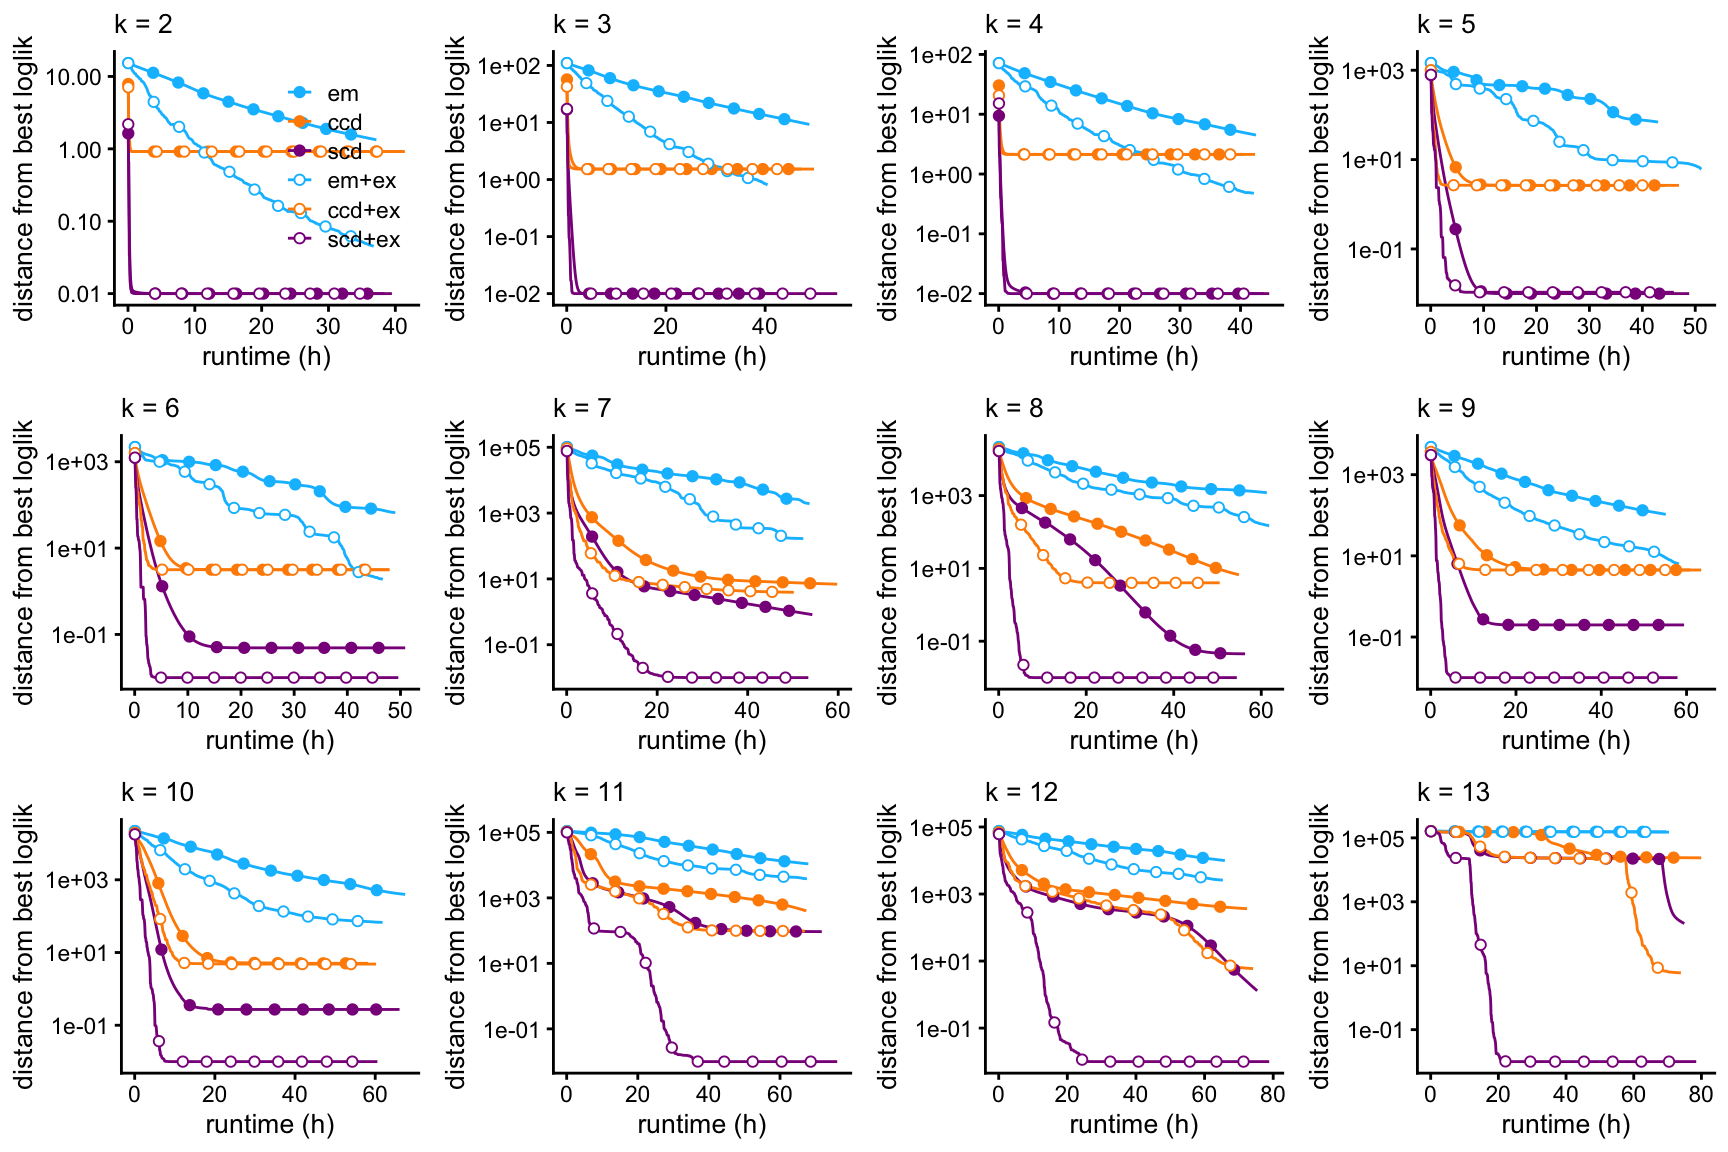
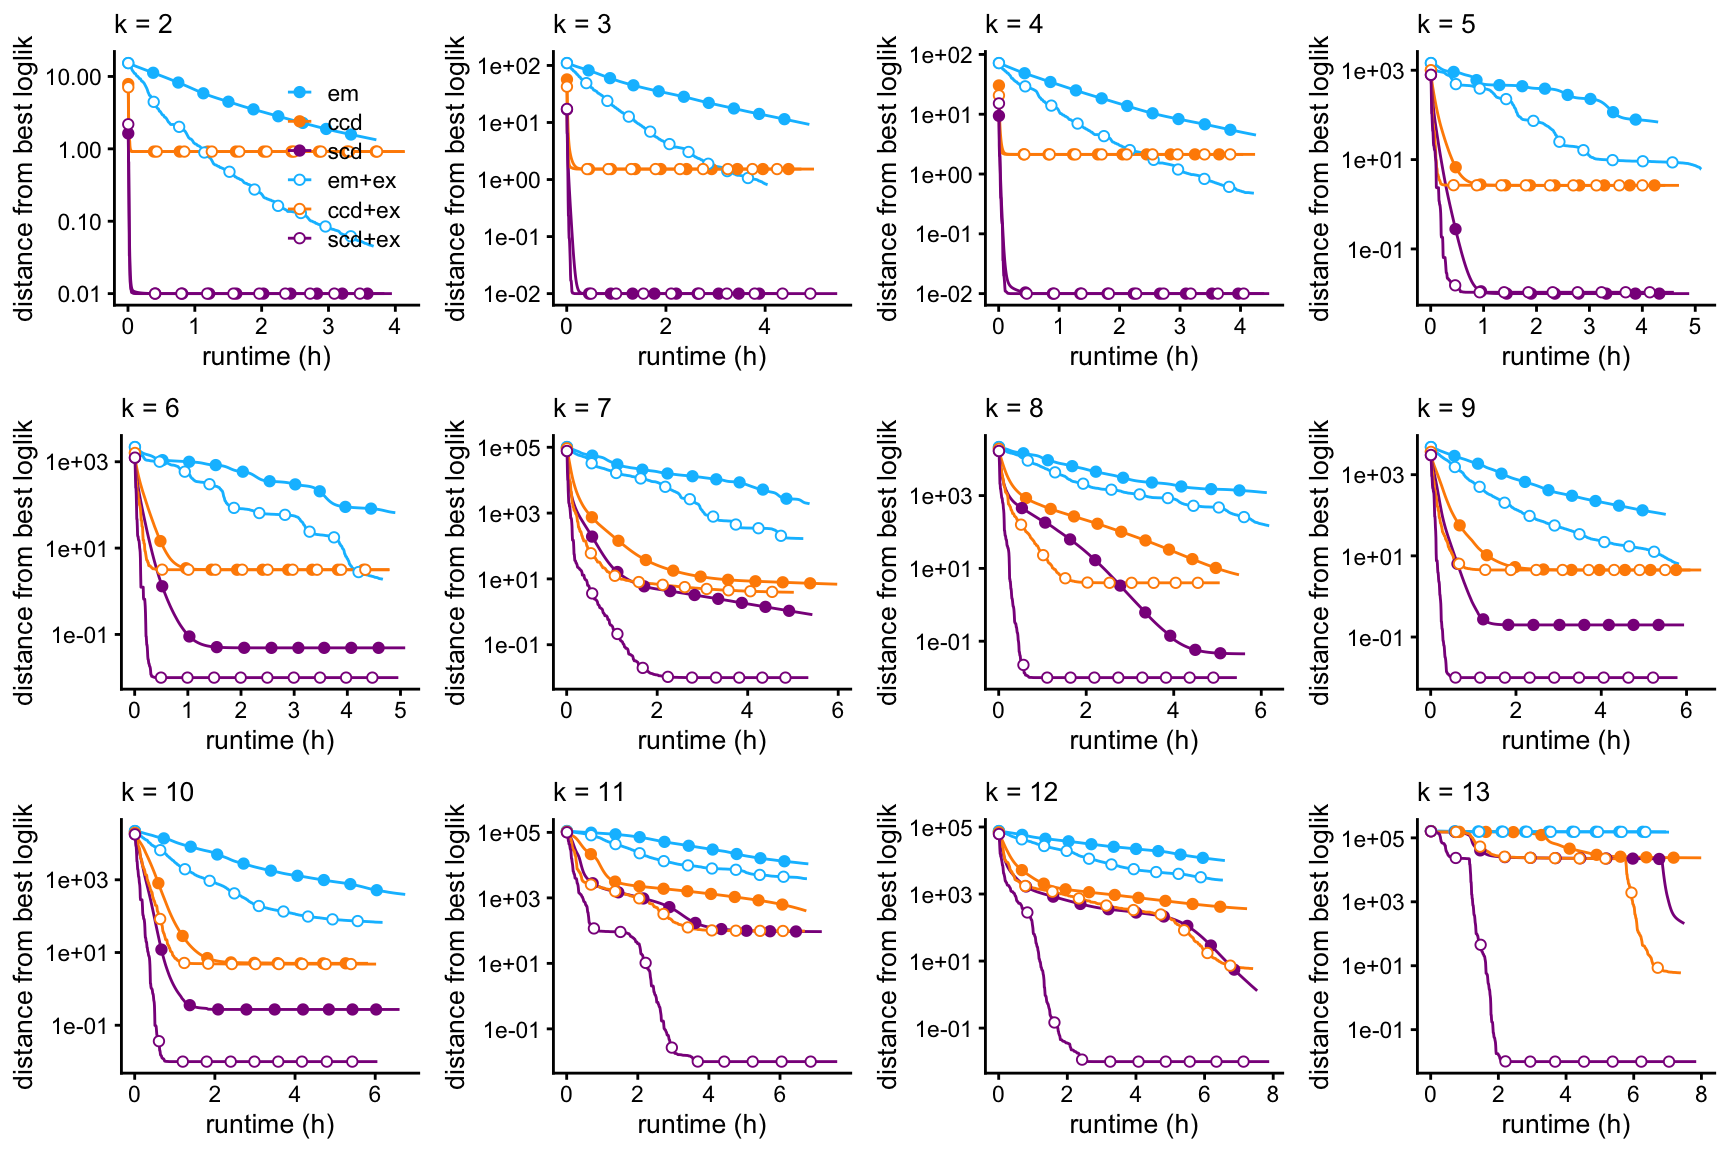
Re-ran assess_fits_purified_pbmc analysis with fix to timings reported in x axes.

diff --git a/docs/assess_fits_purified_pbmc.html b/docs/assess_fits_purified_pbmc.html
@@ -285,7 +285,9 @@ $(document).ready(function () {
 </li>
       </ul>
       <ul class="nav navbar-nav navbar-right">
-        
+        <li>
+  <a href="https://github.com/stephenslab/single-cell-topics">source</a>
+</li>
       </ul>
     </div><!--/.nav-collapse -->
   </div><!--/.container -->
@@ -321,7 +323,7 @@ $(document).ready(function () {
 <div class="tab-content">
 <div id="summary" class="tab-pane fade in active">
 <p>
-<strong>Last updated:</strong> 2020-08-10
+<strong>Last updated:</strong> 2020-08-31
 </p>
 <p>
 <strong>Checks:</strong> <span class="glyphicon glyphicon-ok text-success" aria-hidden="true"></span> 7 <span class="glyphicon glyphicon-exclamation-sign text-danger" aria-hidden="true"></span> 0
@@ -412,25 +414,34 @@ This reproducible <a href="http://rmarkdown.rstudio.com">R Markdown</a> analysis
 <div class="panel panel-default">
 <div class="panel-heading">
 <p class="panel-title">
-<a data-toggle="collapse" data-parent="#workflowr-checks" href="#strongRepositoryversionstrongahrefhttpsgithubcomstephenslabsinglecelltopicstreed8617a374a5744c7e64ee164228e3c76ae89c175targetblankd8617a3a"> <span class="glyphicon glyphicon-ok text-success" aria-hidden="true"></span> <strong>Repository version:</strong> <a href="https://github.com/stephenslab/single-cell-topics/tree/d8617a374a5744c7e64ee164228e3c76ae89c175" target="_blank">d8617a3</a> </a>
+<a data-toggle="collapse" data-parent="#workflowr-checks" href="#strongRepositoryversionstrongahrefhttpsgithubcomstephenslabsinglecelltopicstree5653062ef35a3946031b36d3ed6e19310460db80targetblank5653062a"> <span class="glyphicon glyphicon-ok text-success" aria-hidden="true"></span> <strong>Repository version:</strong> <a href="https://github.com/stephenslab/single-cell-topics/tree/5653062ef35a3946031b36d3ed6e19310460db80" target="_blank">5653062</a> </a>
 </p>
 </div>
[2 lines of base64/hex data omitted]
 <div class="panel-body">
 <p>
 Great! You are using Git for version control. Tracking code development and connecting the code version to the results is critical for reproducibility.
 </p>
 <p>
-The results in this page were generated with repository version <a href="https://github.com/stephenslab/single-cell-topics/tree/d8617a374a5744c7e64ee164228e3c76ae89c175" target="_blank">d8617a3</a>. See the <em>Past versions</em> tab to see a history of the changes made to the R Markdown and HTML files.
+The results in this page were generated with repository version <a href="https://github.com/stephenslab/single-cell-topics/tree/5653062ef35a3946031b36d3ed6e19310460db80" target="_blank">5653062</a>. See the <em>Past versions</em> tab to see a history of the changes made to the R Markdown and HTML files.
 </p>
 <p>
 Note that you need to be careful to ensure that all relevant files for the analysis have been committed to Git prior to generating the results (you can use <code>wflow_publish</code> or <code>wflow_git_commit</code>). workflowr only checks the R Markdown file, but you know if there are other scripts or data files that it depends on. Below is the status of the Git repository when the results were generated:
 </p>
 <pre><code>
 Ignored files:
+    Ignored:    data/droplet.RData
+    Ignored:    data/pbmc_68k.RData
+    Ignored:    data/pbmc_purified.RData
+    Ignored:    data/pulseseq.RData
     Ignored:    output/droplet/fits-droplet.RData
+    Ignored:    output/droplet/rds/
     Ignored:    output/pbmc-68k/fits-pbmc-68k.RData
+    Ignored:    output/pbmc-68k/rds/
     Ignored:    output/pbmc-purified/fits-pbmc-purified.RData
+    Ignored:    output/pbmc-purified/rds/
+    Ignored:    output/pulseseq/fits-pulseseq.RData
+    Ignored:    output/pulseseq/rds/
 
 </code></pre>
 <p>
@@ -469,6 +480,23 @@ Message
 </tr>
 </thead>
 <tbody>
+<tr>
+<td>
+html
+</td>
+<td>
+<a href="https://rawcdn.githack.com/stephenslab/single-cell-topics/cccb45ccaaf9e0cf0d0c27e1ee903178b4d67c59/docs/assess_fits_purified_pbmc.html" target="_blank">cccb45c</a>
+</td>
+<td>
+Peter Carbonetto
+</td>
+<td>
+2020-08-10
+</td>
+<td>
+Build site.
+</td>
+</tr>
 <tr>
 <td>
 Rmd
@@ -539,13 +567,124 @@ source(&quot;../code/functions_for_assessing_fits.R&quot;)</code></pre>
 <pre class="r"><code>plot_loglik_vs_rank(fits) +
   theme_cowplot(font_size = 12)</code></pre>
 <p><img src="figure/assess_fits_purified_pbmc.Rmd/plot-loglik-vs-k-1.png" width="336" style="display: block; margin: auto;" /></p>
+<p>
+<button type="button" class="btn btn-default btn-xs btn-workflowr btn-workflowr-fig" data-toggle="collapse" data-target="#fig-plot-loglik-vs-k-1">
+Past versions of plot-loglik-vs-k-1.png
+</button>
+</p>
+<div id="fig-plot-loglik-vs-k-1" class="collapse">
+<div class="table-responsive">
+<table class="table table-condensed table-hover">
+<thead>
+<tr>
+<th>
+Version
+</th>
+<th>
+Author
+</th>
+<th>
+Date
+</th>
+</tr>
+</thead>
+<tbody>
+<tr>
+<td>
+<a href="https://github.com/stephenslab/single-cell-topics/blob/cccb45ccaaf9e0cf0d0c27e1ee903178b4d67c59/docs/figure/assess_fits_purified_pbmc.Rmd/plot-loglik-vs-k-1.png" target="_blank">cccb45c</a>
+</td>
+<td>
+Peter Carbonetto
+</td>
+<td>
+2020-08-10
+</td>
+</tr>
+</tbody>
+</table>
+</div>
+</div>
 <p>The likelihood improves as the rank, <span class="math inline">\(k\)</span>, increases.</p>
 <p>The next set of plots shows the improvement in the fit over time, for all choices of <span class="math inline">\(k\)</span>, and for each of the three optimization methods (EM, CCD, SCD), with and without the extrapolation scheme. The quality of the fit is measured by the log-likelihood relative to the best log-likelihood that was identified among all methods compared.</p>
 <pre class="r"><code>create_progress_plots(dat,fits,&quot;loglik&quot;)</code></pre>
 <p><img src="figure/assess_fits_purified_pbmc.Rmd/plot-loglik-1.png" width="864" style="display: block; margin: auto;" /></p>
+<p>
+<button type="button" class="btn btn-default btn-xs btn-workflowr btn-workflowr-fig" data-toggle="collapse" data-target="#fig-plot-loglik-1">
+Past versions of plot-loglik-1.png
+</button>
+</p>
+<div id="fig-plot-loglik-1" class="collapse">
+<div class="table-responsive">
+<table class="table table-condensed table-hover">
+<thead>
+<tr>
+<th>
+Version
+</th>
+<th>
+Author
+</th>
+<th>
+Date
+</th>
+</tr>
+</thead>
+<tbody>
+<tr>
+<td>
+<a href="https://github.com/stephenslab/single-cell-topics/blob/cccb45ccaaf9e0cf0d0c27e1ee903178b4d67c59/docs/figure/assess_fits_purified_pbmc.Rmd/plot-loglik-1.png" target="_blank">cccb45c</a>
+</td>
+<td>
+Peter Carbonetto
+</td>
+<td>
+2020-08-10
+</td>
+</tr>
+</tbody>
+</table>
+</div>
+</div>
 <p>The last set of plots shows the evolution of the KKT residuals over time; the KKT residuals should vanish near a stationary point of the log-likelihood, so looking at the largest KKT residual can be used to assess how close we are to a solution. Note that, unlike the log-likelihood, the KKT residuals are not expected to decrease monotonically over time.</p>
 <pre class="r"><code>create_progress_plots(dat,fits,&quot;res&quot;)</code></pre>
 <p><img src="figure/assess_fits_purified_pbmc.Rmd/plot-res-1.png" width="864" style="display: block; margin: auto;" /></p>
+<p>
+<button type="button" class="btn btn-default btn-xs btn-workflowr btn-workflowr-fig" data-toggle="collapse" data-target="#fig-plot-res-1">
+Past versions of plot-res-1.png
+</button>
+</p>
+<div id="fig-plot-res-1" class="collapse">
+<div class="table-responsive">
+<table class="table table-condensed table-hover">
+<thead>
+<tr>
+<th>
+Version
+</th>
+<th>
+Author
+</th>
+<th>
+Date
+</th>
+</tr>
+</thead>
+<tbody>
+<tr>
+<td>
+<a href="https://github.com/stephenslab/single-cell-topics/blob/cccb45ccaaf9e0cf0d0c27e1ee903178b4d67c59/docs/figure/assess_fits_purified_pbmc.Rmd/plot-res-1.png" target="_blank">cccb45c</a>
+</td>
+<td>
+Peter Carbonetto
+</td>
+<td>
+2020-08-10
+</td>
+</tr>
+</tbody>
+</table>
+</div>
+</div>
 <br>
 <p>
 <button type="button" class="btn btn-default btn-workflowr btn-workflowr-sessioninfo" data-toggle="collapse" data-target="#workflowr-sessioninfo" style="display: block;">
@@ -556,7 +695,7 @@ source(&quot;../code/functions_for_assessing_fits.R&quot;)</code></pre>
 <pre class="r"><code>sessionInfo()
 # R version 3.6.2 (2019-12-12)
 # Platform: x86_64-apple-darwin15.6.0 (64-bit)
-# Running under: macOS Catalina 10.15.5
+# Running under: macOS Catalina 10.15.6
 # 
 # Matrix products: default
 # BLAS:   /Library/Frameworks/R.framework/Versions/3.6/Resources/lib/libRblas.0.dylib
@@ -569,10 +708,10 @@ source(&quot;../code/functions_for_assessing_fits.R&quot;)</code></pre>
 # [1] stats     graphics  grDevices utils     datasets  methods   base     
 # 
 # other attached packages:
-# [1] cowplot_1.0.0      ggplot2_3.3.0      fastTopics_0.3-145
+# [1] cowplot_1.0.0      ggplot2_3.3.0      fastTopics_0.3-165
 # 
 # loaded via a namespace (and not attached):
-#  [1] ggrepel_0.9.0        Rcpp_1.0.3           lattice_0.20-38     
+#  [1] ggrepel_0.9.0        Rcpp_1.0.5           lattice_0.20-38     
 #  [4] tidyr_1.0.0          prettyunits_1.1.1    assertthat_0.2.1    
 #  [7] zeallot_0.1.0        rprojroot_1.3-2      digest_0.6.23       
 # [10] R6_2.4.1             backports_1.1.5      MatrixModels_0.4-1  
@@ -589,7 +728,7 @@ source(&quot;../code/functions_for_assessing_fits.R&quot;)</code></pre>
 # [43] dplyr_0.8.3          withr_2.1.2          later_1.0.0         
 # [46] MASS_7.3-51.4        grid_3.6.2           jsonlite_1.6        
 # [49] gtable_0.3.0         lifecycle_0.1.0      git2r_0.26.1        
-# [52] magrittr_1.5         scales_1.1.0         RcppParallel_4.4.4  
+# [52] magrittr_1.5         scales_1.1.0         RcppParallel_5.0.2  
 # [55] stringi_1.4.3        farver_2.0.1         fs_1.3.1            
 # [58] promises_1.1.0       vctrs_0.2.1          tools_3.6.2         
 # [61] glue_1.3.1           purrr_0.3.3          hms_0.5.2           
